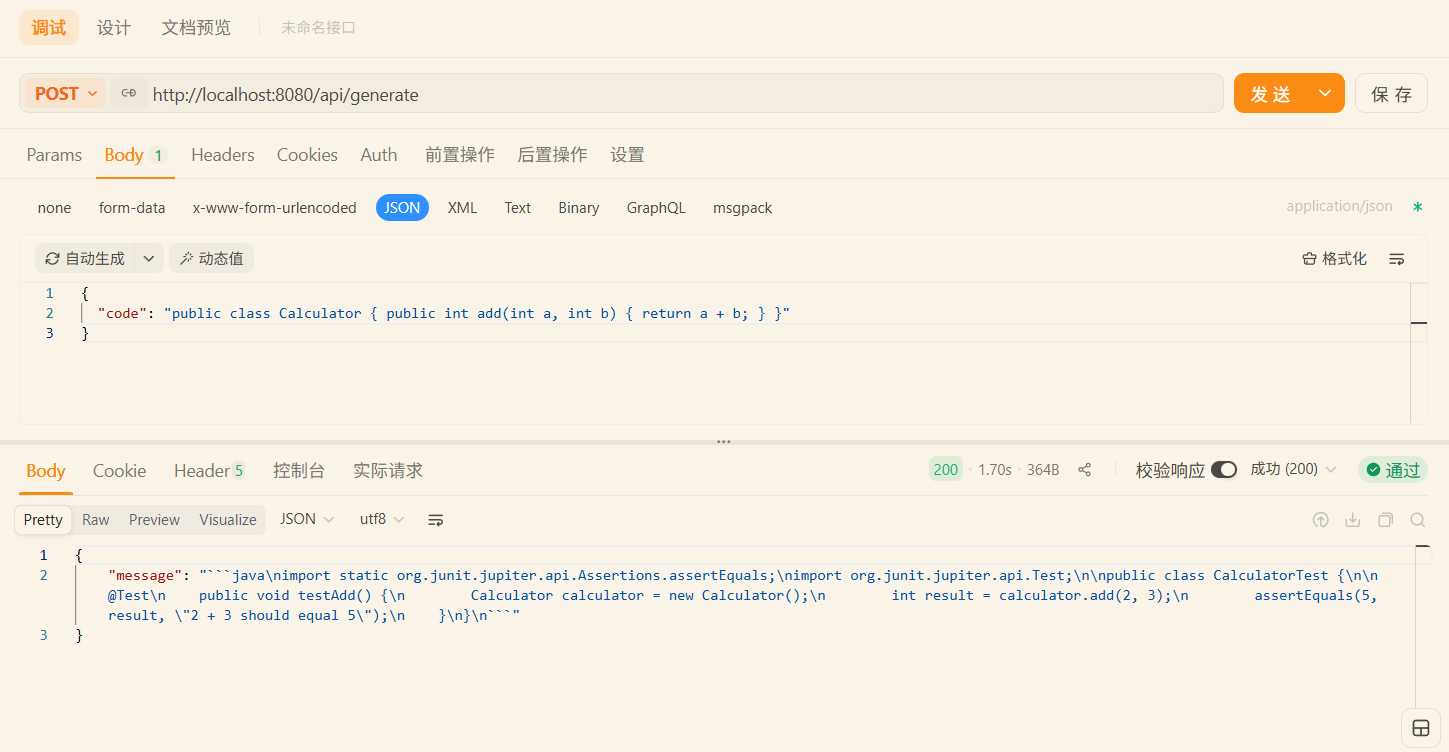
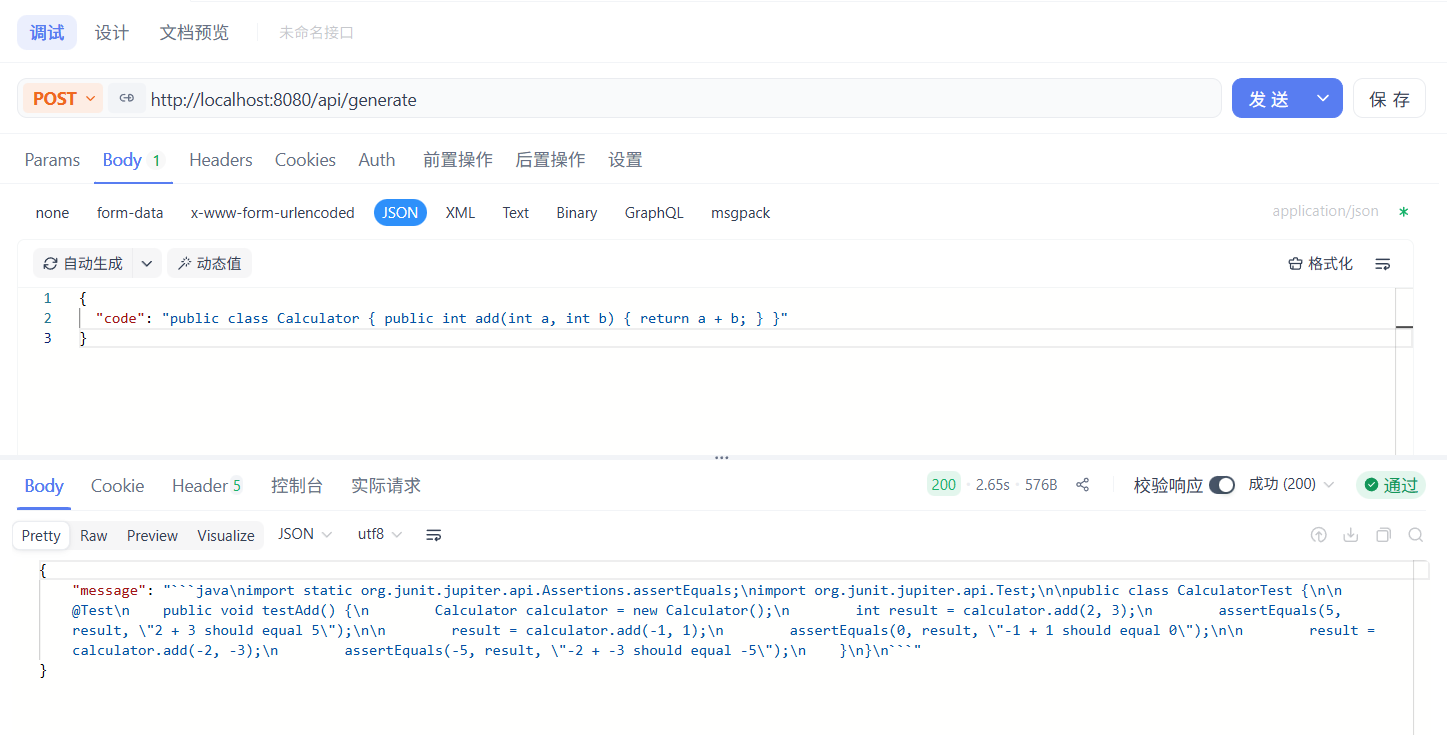
update post-7

diff --git a/_posts/2025-08-04-spring-ai-从0到0.1.md b/_posts/2025-08-04-spring-ai-从0到0.1.md
@@ -3,7 +3,7 @@ categories: [Java, Spring]
 tags: [java, spring, springboot, ai]
 ---
 
-> https://spring.io/blog/2025/05/20/spring-ai-1-0-GA-released
+> [https://spring.io/blog/2025/05/20/spring-ai-1-0-GA-released](https://spring.io/blog/2025/05/20/spring-ai-1-0-GA-released)
 
 Spring在不久前发布了Spring AI 1.0，可以使用`spring-ai-bom`包进行依赖管理，这个bom包声明了Spring AI特定版本所使用的所有依赖项的推荐版本，它只包含依赖管理，不包含插件声明或对Spring或Spring Boot的直接引用；
 
@@ -97,7 +97,7 @@ dto/
 
 因为只是简单的对话模型，所以在这里就只引用了基础的`spring-ai-starter-model-openai`openai模型依赖，像是其他的ai功能，RAG、MCP等等可以各取所需引入需要的包(`spring-ai-starter-vector-store-pgvector`、`spring-ai-starter-mcp-client-webflux`、`spring-ai-tika-document-reader`...)
 
-> https://docs.springframework.org.cn/spring-ai/reference/api/chat/openai-chat.html
+> [https://docs.springframework.org.cn/spring-ai/reference/api/chat/openai-chat.html](https://docs.springframework.org.cn/spring-ai/reference/api/chat/openai-chat.html)
 
 ### 2. 配置openai
 Spring AI现在可配置化写好请求大模型所需要的key等信息，模型、温度等参数可在`application.yml`中统一管理，避免硬编码在Service层，便于统一调整或通过配置中心动态修改；而且也能够通过`@ConfigurationProperties`、`@Value`等方式读取
